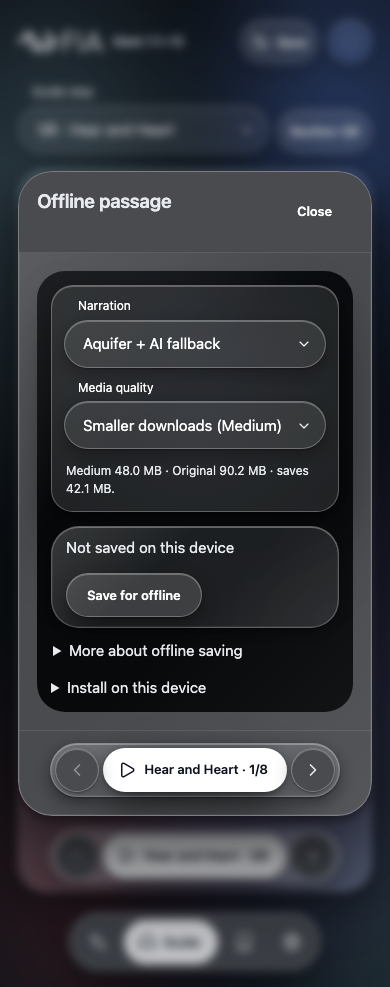
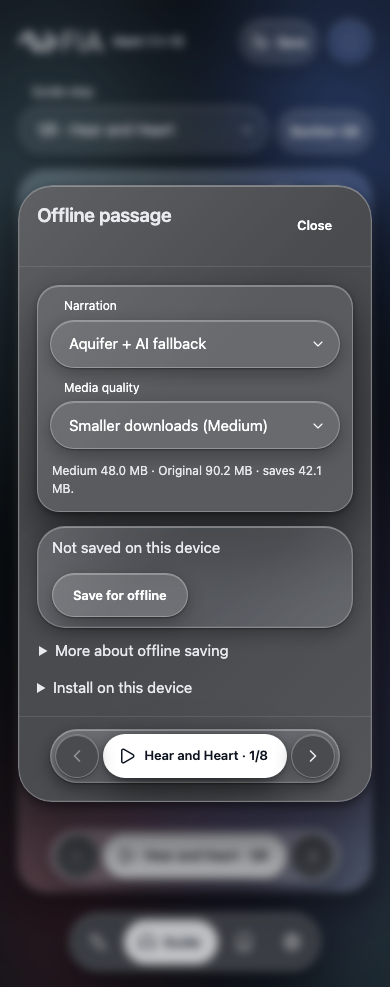
Apply settings backing to the sheet without a redundant outer card

diff --git a/src/styles/app.css b/src/styles/app.css
@@ -108,10 +108,13 @@ html[data-theme="dark"] .scripture-version{background:var(--material-floating)!i
 [data-theme=dark] { color-scheme: dark; }
 
 /* Restore the glass fill ladder against the existing studio backing inside settings. */
-.offline-controls{background:var(--studio-bg);border-radius:var(--r-xl);padding:14px;color:var(--text-body)}
+.offline-controls{color:var(--text-body)}
+.resource-dialog:has(.offline-controls)>div{background:var(--studio-bg)!important}
+.resource-dialog:has(.offline-controls) .dialog-header{background:transparent}
+[data-theme="dark"] .resource-dialog:has(.offline-controls)>div{background:var(--material-floating)!important}
 .offline-preferences{background:var(--material-card);border:var(--border-glass);border-radius:var(--r-lg);box-shadow:var(--shadow-card),var(--inner-top);padding:12px;margin-bottom:14px;display:grid;gap:12px}
 .offline-preferences .reading-note{margin:0;padding-inline:2px}
 .offline-controls select:focus-visible{outline:3px solid var(--link);outline-offset:2px}
 .offline-controls .offline-status{margin-top:0}
 .offline-controls>.offline-help{margin:12px 2px}
-@media(max-width:360px){.offline-controls{padding:10px}.offline-preferences{padding:10px}.offline-controls select{padding-left:12px!important;font-size:14px!important}}
+@media(max-width:360px){.offline-preferences{padding:10px}.offline-controls select{padding-left:12px!important;font-size:14px!important}}

diff --git a/evidence/offline-surface/DEBRIEF.md b/evidence/offline-surface/DEBRIEF.md
@@ -7,3 +7,7 @@ Six native cases cover 390 light/dark English/Spanish and 320 light English/Span
 Root independently accepted source and actual390 light English/dark Spanish screenshots. Normal merge includes Medium55f2 ancestry. No audio/media changes by this author. Strict build/content and exact release gates remain required; coordinator owns promotion.
 
 Learning: a white translucent material ladder needs a contrasting existing backing. Increasing opacity over white would preserve the defect. Visual review, rather than token reuse alone, establishes hierarchy.
+
+## User correction supersedes initial surface approval
+
+Accepted additive4 (author2/root1/coordinator1), total10. Removed redundant outer wrapper background, radius and padding in both themes. Light studio backing now belongs to the entire settings modal, including header/footer. Dark keeps original material-floating backing without an inner black card. Scope is only dialogs containing OfflineControls; other resource dialogs are unchanged. Existing preference/status groups remain. Corrected six native cases pass10.4s; screenshots now show this final design. Initial design was independently approved but missed the unnecessary nested card; user correction takes precedence. Token reuse alone did not excuse extra visual structure.

diff --git a/CHANGELOG.md b/CHANGELOG.md
@@ -1,6 +1,6 @@
 # 0.1.16
 
-Give Offline passage distinct preference and saved-status surfaces in both themes using existing studio and glass materials. Preserve shared English/Spanish controls and concise disclosure.
+Give the entire light Offline passage modal its existing studio backing, retain the original dark modal backing, and distinguish preference and saved-status groups without an extra outer card. Preserve shared English/Spanish controls and concise disclosure.
 
 # 0.1.15
 
